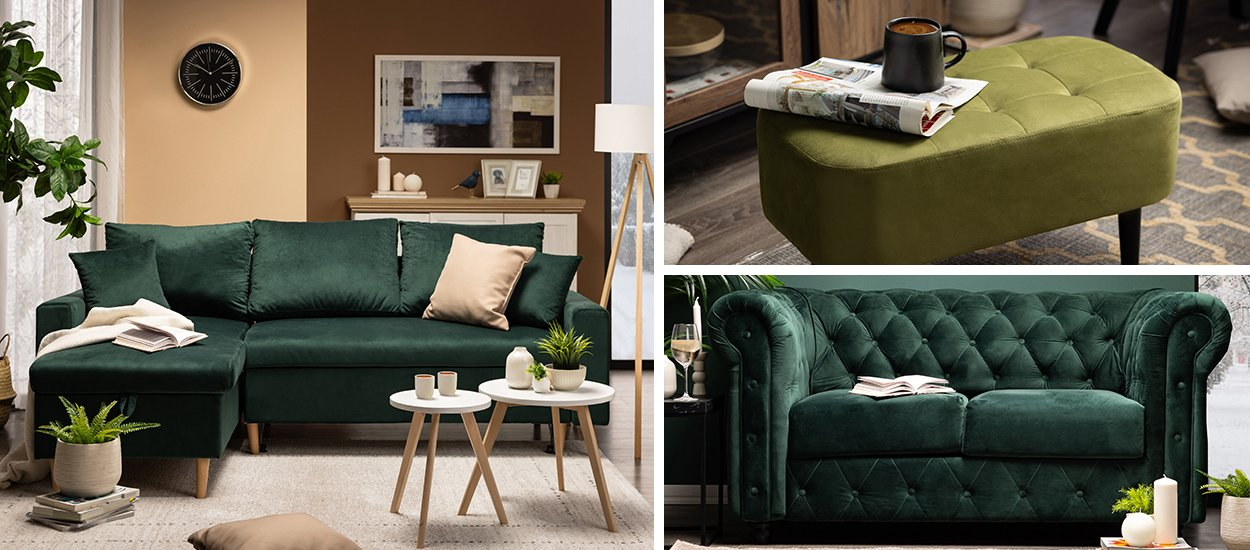
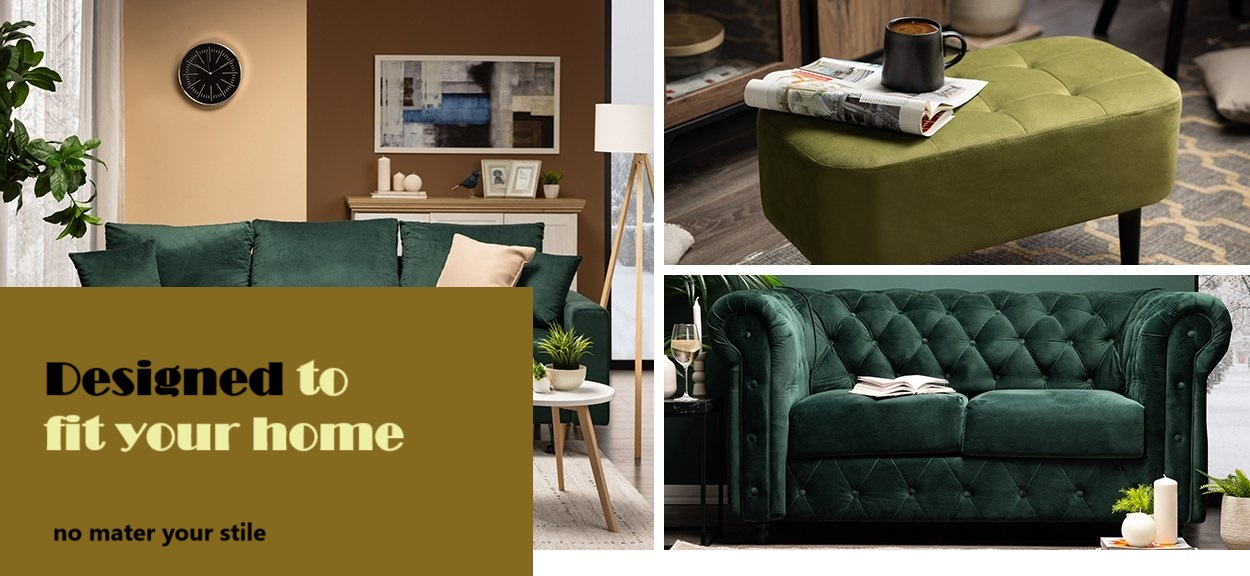
Add styling and responsivnes on homepage and header

diff --git a/frontend/src/main.css b/frontend/src/main.css
@@ -46,8 +46,8 @@
 
 .container__slider__links-small {
   position: relative;
-  width: 8px;
-  height: 8px;
+  width: 15px;
+  height: 15px;
   padding: 0;
   border-radius: 50%;
   outline: none;
@@ -63,15 +63,36 @@
 }
 
 .slider__item {
+  background: white;
+  padding-bottom: 10px;
   box-sizing: border-box;
   min-width: 100%;
-  height: auto;
+  position: relative;
   overflow: hidden;
   -o-object-fit: cover;
      object-fit: cover;
-  height: auto;
   transform: translateX(0);
   transition: transform 1s ease;
+}
+
+.image-note {
+  position: absolute;
+  background: #b6a05b;
+  color: #3d3d3d;
+  z-index: 122;
+  padding: 20px;
+  max-width: 40%;
+  height: -moz-fit-content;
+  height: fit-content;
+  bottom: 0px;
+  padding: 8% 2%;
+  font-size: 4rem;
+  font-weight: 700;
+  font-family: "DM Serif Display", serif;
+}
+
+.image-note > span {
+  color: white;
 }
 
 .slider__item-active-1 {
@@ -103,15 +124,27 @@
 }
 
 .slider__item img {
-  width: 100%;
-  height: auto;
+  min-width: 100%;
+  height: 100vh;
 }
 
+@media screen and (max-width: 900px) {
+  .image-note {
+    max-width: none;
+    width: 100%;
+    font-size: 3rem;
+  }
+}
 .header {
   padding: 20px 100px;
+  position: fixed;
   display: flex;
+  right: 0px;
+  left: 0px;
   justify-content: space-between;
   align-items: center;
+  background: rgba(162, 157, 64, 0.304);
+  z-index: 1;
 }
 
 .logo {
@@ -122,13 +155,43 @@
   display: flex;
   gap: 25px;
   font-size: 1.4rem;
+  align-items: center;
+}
+
+.nav-bar > button {
+  color: black;
+}
+
+.home-about {
+  border: 2px solid #b6a05b;
+  margin: 100px 10%;
+  padding: 50px;
+  font-size: 1.6rem;
+}
+
+@media screen and (max-width: 700px) {
+  .home-about {
+    margin: 70px 5%;
+    padding: 30px;
+    font-size: 1rem;
+  }
+}
+:root {
+  box-sizing: border-box;
+  font-family: "Nunito Sans", serif;
 }
 
 body {
   height: 200vh;
+  margin: 0;
+  padding: 0;
 }
 
 a {
   color: black;
   text-decoration: none;
+}
+
+h1 {
+  margin-top: 0;
 }/*# sourceMappingURL=main.css.map */

diff --git a/frontend/src/pages/Home.jsx b/frontend/src/pages/Home.jsx
@@ -1,13 +1,33 @@
 import ImageSlider from "../components/ImageSlider";
 import sliderImages from "../data/sliderImages";
+import Image from "../components/Image";
 export default function HomePage() {
   return (
     <>
       <ImageSlider>
         {sliderImages.map((image, index) => {
-          return <img key={index} src={image.imgURL} alt={image.imgAlt} />;
+          console.log(index);
+          return (
+            <Image
+              key={index}
+              imgURL={image.imgURL}
+              imgAlt={image.imgAlt}
+              note={image.note}
+            />
+          );
         })}
       </ImageSlider>
+      <div className="home-about">
+        Dobrodošli u [Naziv kompanije], gde se strast prema dizajnu i vrhunskoj
+        izradi spaja kako bismo stvorili nameštaj koji inspiriše i unapređuje
+        vaš prostor. Specijalizovani smo za izradu visokokvalitetnih kuhinja po
+        meri, prilagođenih vašem ukusu, stilu i potrebama. Sa pažnjom prema
+        svakom detalju i korišćenjem najkvalitetnijih materijala, naš cilj je da
+        svaki komad nameštaja bude savršen spoj funkcionalnosti, estetike i
+        trajnosti. Bez obzira na to da li ste u potrazi za modernim
+        minimalističkim rešenjima ili klasičnim, toplim dizajnom, mi ćemo se
+        pobrinuti da vaša vizija postane stvarnost.
+      </div>
     </>
   );
 }

diff --git a/frontend/scss/_imageSlider.scss b/frontend/scss/_imageSlider.scss
@@ -10,7 +10,7 @@
     flex-wrap: nowrap;
     background-color: black;
   }
-  
+ 
   .container__slider > button {
     
     background: #6b69698b;
@@ -45,8 +45,8 @@
   
   .container__slider__links-small {
     position: relative;
-    width: 8px;
-    height: 8px;
+    width: 15px;
+    height: 15px;
     padding: 0;
     border-radius: 50%;
     outline: none;
@@ -62,14 +62,35 @@
   }
   
   .slider__item {
+    background: white;
+    padding-bottom: 10px;
     box-sizing: border-box;
     min-width: 100%;
-    height: auto;
+    position: relative;
     overflow: hidden;
     object-fit: cover;
-    height: auto;
+
     transform: translateX(0);
     transition: transform 1s ease;
+  }
+  
+  .image-note{
+    position: absolute;
+    background: #b6a05b;
+    color: #3d3d3d;
+    z-index: 122;
+    padding: 20px;
+    max-width: 40%;
+    height: fit-content;
+    bottom: 0px;
+    padding:8% 2%;
+    font-size: 4rem;
+    font-weight: 700;
+    font-family: "DM Serif Display", serif;
+  }
+  .image-note > span {
+    color: white;
+   
   }
   
   .slider__item-active-1 {
@@ -101,7 +122,13 @@
   }
   
   .slider__item img {
-    width: 100%;
-    height: auto;
+    min-width: 100%;
+    height: 100vh;
   }
-  
+  @include media-mmd{
+    .image-note{
+      max-width: none;
+      width: 100%;
+      font-size: 3rem;
+    }
+  }

diff --git a/frontend/src/data/sliderImages.js b/frontend/src/data/sliderImages.js
@@ -1,13 +1,24 @@
-import image1 from "../assets/csm_glavna-Izbor-boje-za-atraktivne-ambijente-doma_464a2734a6.jpg";
-import image2 from "../assets/images.jpg";
+import image1 from "../assets/JUS-Hero-Mattress.jpg";
+
 import image3 from "../assets/Kuhinja-Atina-2-e1730295717987.png";
 import image4 from "../assets/premium_photo-1680382578857-c331ead9ed51.jpg";
 
 const sliderImages = [
-  { imgURL: image1, imgAlt: "img1" },
-  { imgURL: image2, imgAlt: "img2" },
-  { imgURL: image3, imgAlt: "img3" },
-  { imgURL: image4, imgAlt: "img4" },
+  {
+    imgURL: image1,
+    imgAlt: "img1",
+    note: { first: "Designed ", second: "to fit your home" },
+  },
+  {
+    imgURL: image3,
+    imgAlt: "img3",
+    note: { first: "A good night sleep", second: " beguins here" },
+  },
+  {
+    imgURL: image4,
+    imgAlt: "img4",
+    note: { first: "Proudly crafted", second: " by Serbian hands" },
+  },
 ];
 
 export default sliderImages;

diff --git a/frontend/index.html b/frontend/index.html
@@ -10,6 +10,9 @@
       rel="stylesheet"
       href="https://fonts.googleapis.com/css2?family=Roboto:wght@300;400;500;700&display=swap"
     />
+    <link rel="preconnect" href="https://fonts.googleapis.com">
+    <link rel="preconnect" href="https://fonts.gstatic.com" crossorigin>
+    <link href="https://fonts.googleapis.com/css2?family=DM+Serif+Display:ital@0;1&family=Nunito+Sans:ital,opsz,wght@0,6..12,200..1000;1,6..12,200..1000&display=swap" rel="stylesheet">
     <title>UltraStyle</title>
   </head>
   <body>

diff --git a/frontend/src/components/Header.jsx b/frontend/src/components/Header.jsx
@@ -1,4 +1,6 @@
 import { NavLink } from "react-router";
+import { IconButton } from "@mui/material";
+import ContrastIcon from "@mui/icons-material/Contrast";
 
 export default function Header() {
   return (
@@ -8,6 +10,9 @@ export default function Header() {
         <NavLink to={"/"}>Home</NavLink>
         <NavLink to={"/galery"}>Galery</NavLink>
         <NavLink to={"/contact"}>Contact</NavLink>
+        <IconButton>
+          <ContrastIcon />
+        </IconButton>
       </div>
     </div>
   );

diff --git a/frontend/scss/_header.scss b/frontend/scss/_header.scss
@@ -1,8 +1,13 @@
 .header{
     padding: 20px 100px;
+    position: fixed;
     display: flex;
+    right: 0px;
+    left: 0px;
     justify-content: space-between;
     align-items: center;
+    background: rgba(162, 157, 64, 0.304);
+    z-index: 1;
 }
 .logo{
     font-size: 2rem;
@@ -11,4 +16,8 @@
     display: flex;
     gap: 25px;
     font-size: 1.4rem;
+    align-items: center;
+}
+.nav-bar > button {
+    color: black;
 }

diff --git a/frontend/scss/main.scss b/frontend/scss/main.scss
@@ -1,9 +1,21 @@
+@import "config";
 @import "imageSlider";
 @import "header";
+@import "home";
+
+:root{
+    box-sizing: border-box;
+    font-family: "Nunito Sans" ,serif
+}
 body {
     height: 200vh;
+    margin: 0;
+    padding: 0;
 }
 a{
     color: black;
     text-decoration: none;
+}
+h1{
+    margin-top: 0;
 }

diff --git a/frontend/src/components/Image.jsx b/frontend/src/components/Image.jsx
@@ -1,0 +1,11 @@
+export default function Image({ imgURL, imgAlt, note }) {
+  return (
+    <>
+      <img src={imgURL} alt={imgAlt} />
+      <div className="image-note">
+        {note.first}
+        <span>{note.second}</span>
+      </div>
+    </>
+  );
+}

diff --git a/frontend/scss/_home.scss b/frontend/scss/_home.scss
@@ -1,0 +1,13 @@
+.home-about{
+    border: 2px solid #b6a05b;
+    margin: 100px 10%;
+    padding: 50px;
+    font-size: 1.6rem;
+}
+@include media-md{
+   .home-about{
+    margin: 70px 5%;
+    padding: 30px;
+    font-size: 1rem;
+   }
+  }

diff --git a/frontend/scss/_config.scss b/frontend/scss/_config.scss
@@ -1,0 +1,10 @@
+@mixin media-md {
+    @media screen and (max-width: 700px) {
+        @content;
+}
+}
+@mixin media-mmd {
+    @media screen and (max-width: 900px) {
+        @content;
+}
+}
